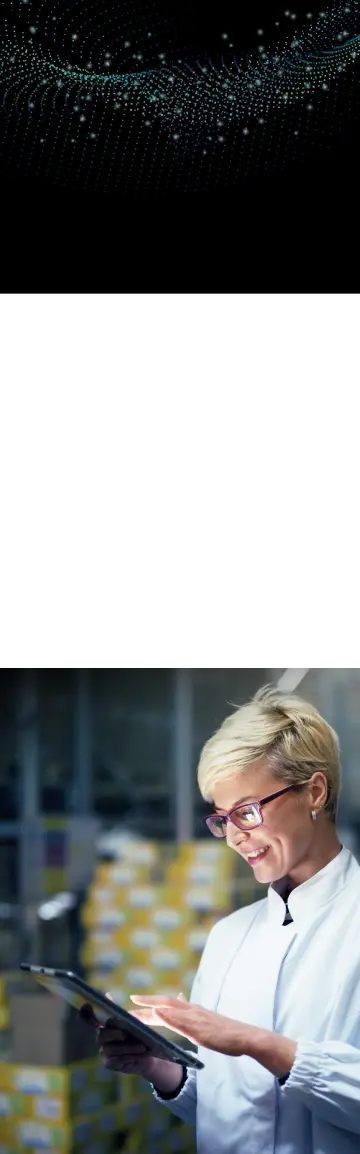
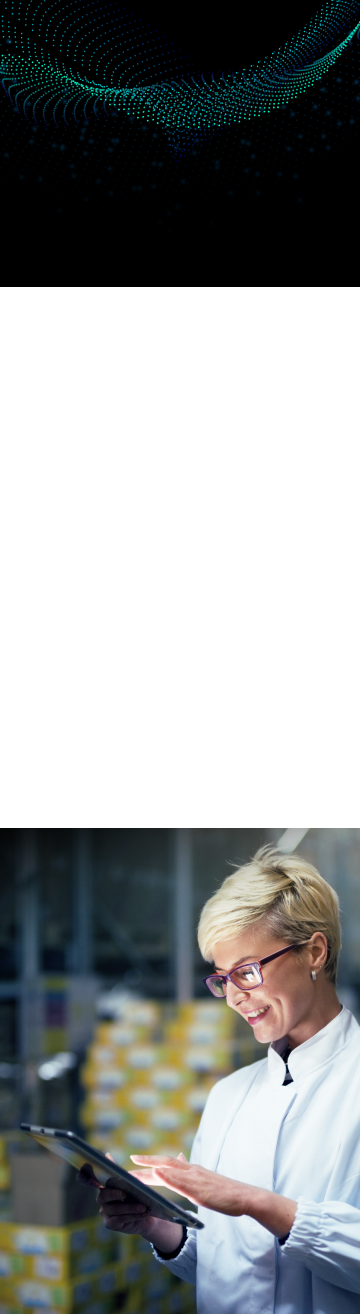
for auditors adaptiv

diff --git a/components/Auditors/why.js b/components/Auditors/why.js
@@ -4,7 +4,7 @@ import MagnifyOnScroll from "../MagnifyOnScroll";
 function Why() {
   return (
     <div className="relative grid grid-cols-1 2xl:grid-cols-2 w-full 3xl:max-h-[875px] 2xl:max-h-[789px] z-[1]">
-      <div className="relative flex pr-[41px] md:pr-[0] pl-[41px] md:pl-[85px] 2xl:pl-[162px] 3xl:pl-[202px] 3xl:pb-[583px] md:pt-[184px] pt-[98px] w-full bg-white 3xl:max-h-[875px] 2xl:max-h-[789px]">
+      <div className="relative flex pr-[41px] md:pr-[0] pl-[41px] md:pl-[85px] 2xl:pl-[162px] 3xl:pl-[202px] 3xl:pb-[583px] md:pt-[184px] pt-[100px] w-full bg-white 3xl:max-h-[875px] 2xl:max-h-[789px]">
         <h1
           className="w-full text-black font-inter font-[700] md:text-[50px] text-[30px] md:leading-[58px] leading-[34px] z-[1]"
           data-scroll
@@ -14,13 +14,13 @@ function Why() {
           an YVOO Agent?
         </h1>
         <div
-          className="absolute bg-mint 3xl:w-[592px] 2xl:w-[432px] md:w-[476px] w-[262px] 2xl:h-[721px] md:h-[600px] h-[382px] md:top-[-82px] top-[-40px] 2xl:right-[12px] md:right-[85px] right-[0]"
+          className="absolute bg-mint 3xl:w-[592px] 2xl:w-[432px] md:w-[476px] w-[221px] 2xl:h-[721px] md:h-[600px] h-[382px] md:top-[-82px] top-[-40px] 2xl:right-[12px] md:right-[85px] right-[41px]"
           data-scroll
           data-scroll-speed="0.2"
         ></div>
       </div>
-      <div className="2xl:px-[20px] 3xl:px-[50px] w-full bg-white 3xl:max-h-[875px] 2xl:max-h-[789px] md:max-h-[894px] 3xl:min-h-[876px] min-h-[741px]">
-        <div className="md:ml-[92px] 2xl:ml-[42px] mt-[202px] md:mt-[332px] 2xl:mt-[184px] 2xl:max-w-[503px] 3xl:max-w-[660px] md:px-[0] px-[44px] flex flex-col gap-4">
+      <div className="2xl:px-[20px] 3xl:px-[50px] w-full bg-white 3xl:max-h-[875px] 2xl:max-h-[789px] md:max-h-[894px] md:min-h-[876px] md:pb-[0] pb-[11px]">
+        <div className="md:ml-[92px] 2xl:ml-[42px] mt-[234px] md:mt-[184px] 2xl:max-w-[503px] 3xl:max-w-[660px] md:px-[0] px-[44px] flex flex-col gap-4">
           <ul
             className="text-black pl-[18px] list-disc list-outside md:text-[16px] text-[14px] md:leading-[30px] leading-[20px] font-[400]"
             data-scroll
@@ -58,7 +58,8 @@ function Why() {
           alt="forAuditors"
           width={519}
           height={426}
-          classes="relative object-contain 3xl:top-[135px] 2xl:top-[75px] md:top-[10px] top-[50px] left-[41px] md:left-[85px] 2xl:left-[35px] 3xl:left-[36px] 2xl:max-w-[389px] 3xl:max-w-[max-content] md:max-w-[415px] max-w-[278px] 3xl:max-h-[unset] 2xl:max-h-[319px] md:max-h-[340px] max-h-[229px]"
+          classes="block relative object-contain 3xl:top-[135px] 2xl:top-[75px] md:top-[10px] top-[50px] left-[41px] md:left-[85px] 2xl:left-[35px] 3xl:left-[36px] 2xl:max-w-[389px] 3xl:max-w-[max-content] md:max-w-[415px] max-w-[278px] 3xl:max-h-[unset] 2xl:max-h-[319px] md:max-h-[340px] max-h-[229px]"
+          imgClasses="2xl:max-w-[389px] 3xl:max-w-[max-content] md:max-w-[415px] max-w-[278px] 3xl:max-h-[unset] 2xl:max-h-[319px] md:max-h-[340px] max-h-[229px]"
           data-scroll
           data-scroll-speed="0.15"
         />

diff --git a/components/Auditors/hero.js b/components/Auditors/hero.js
@@ -2,29 +2,29 @@ function Hero() {
   return (
     <div
       // style={{ backgroundSize: "100% 100%" }}
-      className="relative pl-[41px] pr-[35px] md:px-[85px] 2xl:px-[162px] 3xl:px-[201px] w-full h-[1154px] md:h-[820px] 2xl:bg-center 2xl:bg-cover bg-forAuditorsBg md:bg-forAuditorsBgmd 2xl:bg-forAuditorsBg2xl 3xl:bg-forAuditorsBg3xl bg-no-repeat bg-cover flex justify-center pt-[75px] md:pt-[157px] 2xl:pt-[120px] pb-[86px] md:pb-[160px]"
+      className="relative pl-[41px] pr-[35px] md:px-[85px] 2xl:px-[162px] 3xl:px-[201px] w-full h-[1314px] md:h-[820px] 2xl:bg-center 2xl:bg-cover bg-forAuditorsBg md:bg-forAuditorsBgmd 2xl:bg-forAuditorsBg2xl 3xl:bg-forAuditorsBg3xl bg-no-repeat bg-cover flex justify-center pt-[82px] md:pt-[120px] pb-[86px] md:pb-[160px]"
     >
       {/* <div className="absolute inset-0 bg-black opacity-50"></div> */}
       <div className="w-full 3xl:max-w-[1516px] 2xl:max-w-[1116px] relative z-10">
-        <div className="w-fit flex flex-col md:gap-[12px] gap-[29px] 2xl:h-full justify-between justify-start 3xl:max-w-[unset] md:max-w-[432px]">
+        <div className="w-fit flex flex-col gap-[12px] 2xl:h-full justify-between justify-start 3xl:max-w-[unset] md:max-w-[432px]">
           <h1
-            className="font-inter text-[#06D7F9] md:text-[24px] text-[40px] font-[700] md:leading-[30px] leading-[44px]"
+            className="font-inter text-[#06D7F9] md:text-[24px] text-[18px] font-[700] md:leading-[30px] leading-[26px]"
             data-scroll
             data-scroll-speed="0.1"
           >
             For Auditors
           </h1>
-          <div className="flex flex-col 2xl:gap-[42px] gap-[42px]">
+          <div className="flex flex-col 2xl:gap-[42px] gap-[20px]">
             <h2
-              className="font-[700] md:text-[60px] text-[26px] md:leading-[68px] leading-[30px]"
+              className="font-[700] md:text-[60px] text-[30px] md:leading-[68px] leading-[34px]"
               data-scroll
               data-scroll-speed="0.12"
             >
-              Join the <br />
-              YVOO ScanPro+ Team
+              Join the <br className="md:block hidden" />
+              YVOO Scan<span className="text-mint">Pro+</span> Team
             </h2>
             <div
-              className="font-[400] md:text-[24px] text-[14px] md:leading-[30px] leading-[20px] flex flex-col gap-[20px] max-w-[747px] md:pr-[0] pr-[6px]"
+              className="font-[400] md:text-[24px] text-[18px] md:leading-[30px] leading-[26px] flex flex-col gap-[20px] max-w-[747px]"
               data-scroll
               data-scroll-speed="0.15"
             >

diff --git a/components/Auditors/jobDescription.js b/components/Auditors/jobDescription.js
@@ -3,14 +3,14 @@ import Image from "next/image";
 import ImgLeftToRight from "../ImgLeftToRight"
 function JobDescription() {
   return (
-    <div className="relative w-full px-[41px] md:px-[85px] 2xl:px-[162px] 3xl:px-[202px] pt-[140px] md:pt-[228px] 2xl:pt-[258px] 3xl:pt-[256px] 3xl:pb-[185px] 2xl:pb-[178px] md:pb-[132px] pb-[65px] bg-[#131D2A]">
+    <div className="relative w-full px-[41px] md:px-[85px] 2xl:px-[162px] 3xl:px-[202px] pt-[140px] md:pt-[228px] 2xl:pt-[258px] 3xl:pt-[256px] 3xl:pb-[185px] 2xl:pb-[178px] md:pb-[132px] pb-[80px] bg-[#131D2A]">
       <ImgLeftToRight
         src="/icons/icon-line.svg"
         width={584}
         height={106}
         alt="line"
         classesImg="3xl:max-w-[unset] 2xl:max-w-[458px] md:max-w-[320px] max-w-[142px]"
-        classesContainer="absolute overflow-hidden 3xl:top-[2%] 2xl:top-[0%] md:top-[-1.5%] top-[-1%] 3xl:left-[33.5%] 2xl:left-[35%] md:left-[0%] left-[-62%] z-[1]"
+        classesContainer="absolute overflow-hidden 3xl:top-[2%] 2xl:top-[0%] md:top-[-1.5%] top-[-1%] 3xl:left-[33.5%] 2xl:left-[35%] left-[0%] z-[1]"
         data-scroll
         data-scroll-speed="0.5"
       />
@@ -72,7 +72,7 @@ function JobDescription() {
             performance against various criteria.
           </p>
           <p
-            className="md:mb-[0] mb-[20px]"
+            className="md:mb-[0] mb-[32px]"
             data-scroll
             data-scroll-speed="0.15"
           >

diff --git a/app/auditors/page.js b/app/auditors/page.js
@@ -10,15 +10,15 @@ export default function ForAuditors() {
     // initParallax();
     // initRotateSentences();
 
-    import("locomotive-scroll").then((locomotiveModule) => {
-      const LocomotiveScroll = locomotiveModule.default;
-      new LocomotiveScroll({
-        el: containerRef.current,
-      });
-    });
+    // import("locomotive-scroll").then((locomotiveModule) => {
+    //   const LocomotiveScroll = locomotiveModule.default;
+    //   new LocomotiveScroll({
+    //     el: containerRef.current,
+    //   });
+    // });
   }, []);
   return (
-    <main className="w-full md:pt-[0] pt-[58px]" ref={containerRef} data-scroll-container>
+    <main className="w-full" ref={containerRef} data-scroll-container>
       <div className="flex flex-col">
         <Hero />
         <Why />

diff --git a/tailwind.config.js b/tailwind.config.js
@@ -59,8 +59,8 @@ module.exports = {
         consultingBg: "url(../public/images/consultingBg.webp)",
         // forAuditorsBg3xl: "url(../public/images/auditorsBg3xl.webp)",
         forAuditorsBg3xl: "url(../public/images/forAuditorsBg3xl.webp)",
-        forAuditorsBg2xl: "url(../public/images/auditorsBg2xl.webp)",
-        forAuditorsBgmd: "url(../public/images/auditorsBgmd.webp)",
+        forAuditorsBg2xl: "url(../public/images/forAuditorsBg3xl.webp)",
+        forAuditorsBgmd: "url(../public/images/forAuditorsBg3xl.webp)",
         forAuditorsBg: "url(../public/images/auditorsBg.webp)",
         supplierBg: "url(../public/images/supplierBg.webp)",
         supplierBg3xl: "url(../public/images/supplierBg3xl.webp)",

diff --git a/components/ImgLeftToRight.js b/components/ImgLeftToRight.js
@@ -10,7 +10,7 @@ const MagnifyOnScroll = (imgSrc) => {
       ([entry]) => {
         if (entry.isIntersecting) {
           const visiblePercentage = Math.max(0, (entry.intersectionRatio - 0.25) / 0.75);
-          const newWidth = visiblePercentage * 25; // Максимальная ширина 25%
+          const newWidth = visiblePercentage * 40;
           setWidth(newWidth);
         } else {
           setWidth(0);
